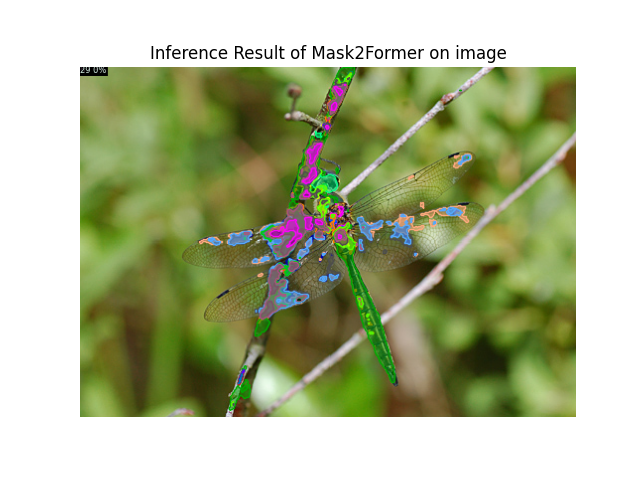
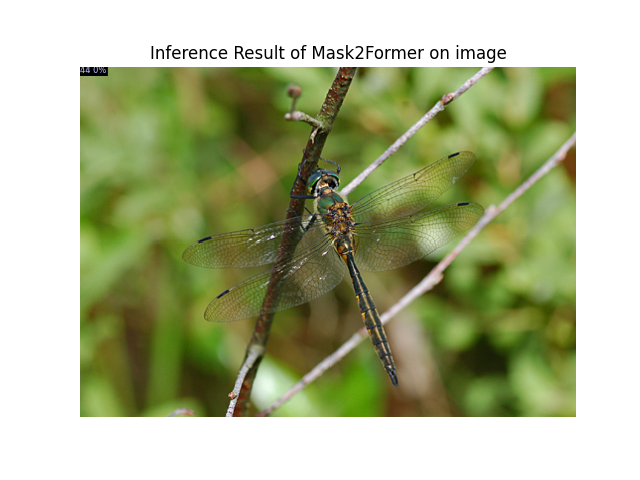
Updating with new inferences

diff --git a/inference_pipeline_mask2former.py b/inference_pipeline_mask2former.py
@@ -11,6 +11,8 @@ from sahi.prediction import ObjectPrediction
 from sahi.utils.cv import get_bbox_from_bool_mask, get_coco_segmentation_from_bool_mask
 from sahi.utils.import_utils import check_requirements
 from detectron2.checkpoint import DetectionCheckpointer
+from detectron2.engine.defaults import DefaultPredictor
+from detectron2.utils.visualizer import Visualizer
 
 logger = logging.getLogger(__name__)
 # import sys
@@ -48,13 +50,13 @@ cfg.freeze()
 predictor = DefaultPredictor(cfg)
 DetectionCheckpointer(predictor.model).load("/home/mrajaraman/Code/model_checkpoints/model_final_mask2former.pth") #, weights_only=False) #, map_location=device)
 print("Model loaded successfully.")
-category_mapping={"1": "b"}
+category_mapping={"1": "head", "2": "thorax", "3": "abdomen", "0": "wings"}
 
 # detectron2 category mapping
 category_names = list(category_mapping.values())
 image = np.array(
     cv2.imread(
-        "/home/mrajaraman/dataset/originals/img_931176390.jpg",  
+        "/home/mrajaraman/dataset/originals/img_931176390.jpg", 
         cv2.IMREAD_COLOR
 ))
 
@@ -63,31 +65,27 @@ image = np.array(
 #     image = image[:, :, ::-1]
 
 prediction_result = predictor(image)
-
-img = prediction_result['instances'][0]._fields['pred_masks'].cpu().detach().numpy()
-bbox = []
-print(prediction_result['instances']._fields['pred_boxes'].tensor)
-print("Number of detected instances is ", len(prediction_result['instances']._fields['pred_boxes'].tensor))
-for i in prediction_result['instances']._fields['pred_boxes'].tensor:
-        print("i is ", i)
-        bbox.append(i.cpu().detach().numpy())
-
-# Display the image
-plt.imshow(Image.open('/home/mrajaraman/dataset/originals/img_931176390.jpg'))
-
-# Add the patch to the Axes
-for i in range(len(bbox)):
-        # print("length is ", len(bbox))
-        plt.gca().add_patch(Rectangle((bbox[i][0], bbox[i][1]), bbox[i][2]-bbox[i][0], bbox[i][3]-bbox[i][1], linewidth=1, edgecolor='r', facecolor='none'))
-        print(f"Instance {i+1} added to image")
-
-# plt.gca().add_patch(Rectangle((50,100),40,30,linewidth=1,edgecolor='r',facecolor='none'))
-# from PIL import Image
-plt.title("Inference Result of Mask2Former on image")
-plt.savefig("inference_mask2former.png")
-
-# original_predictions = pre
+# print(prediction_result)
 # original_predictions = prediction_result
+
+# img = prediction_result['instances'][0]._fields['pred_masks'].cpu().detach().numpy()
+# bbox = []
+# print("Number of detected instances is ", len(prediction_result['instances']._fields['pred_boxes'].tensor))
+# for i in prediction_result['instances']._fields['pred_boxes'].tensor:
+#         print("i is ", i)
+#         bbox.append(i.cpu().detach().numpy())
+
+# # Display the image
+# plt.imshow(Image.open('/home/mrajaraman/dataset/originals/img_931176390.jpg'))
+
+# # Add the patch to the Axes
+# for i in range(len(bbox)):
+#         # print("length is ", len(bbox))
+#         plt.gca().add_patch(Rectangle((bbox[i][0], bbox[i][1]), bbox[i][2]-bbox[i][0], bbox[i][3]-bbox[i][1], linewidth=1, edgecolor='r', facecolor='none'))
+#         print(f"Instance {i+1} added to image")
+
+# plt.title("Inference Result of MaskDINO on image")
+# plt.savefig("inference_maskdino.png")
 
 # # PROOF THAT RESIZING WORKS AS EXPECTED DURING INFERENCE
 # print(predictor.aug)
@@ -102,3 +100,20 @@ sample_preds = prediction_result['instances'][0]._fields['pred_masks'].cpu().det
 # print(sample_preds)
 # print(sample_preds.shape)
 # print(sample_preds.dtype)
+print(sample_preds)
+# print(sample_preds.shape)
+# print(sample_preds.dtype)
+
+outputs = prediction_result["instances"]
+
+# print(type(outputs))
+# print(type(image))
+
+v = Visualizer(image[:, :, ::-1], metadata=None, scale=1.0)
+out = v.draw_instance_predictions(outputs.to("cpu"))
+plt.imshow(out.get_image())
+plt.axis("off")
+plt.show()
+
+plt.title("Inference Result of Mask2Former on image")
+plt.savefig(f"inference_mask2former.png")

diff --git a/inference_pipeline_trained.py b/inference_pipeline_trained.py
@@ -48,18 +48,28 @@ cfg.freeze()
 predictor = DefaultPredictor(cfg)
 # DetectionCheckpointer(predictor.model).load("/home/mrajaraman/Code/model_checkpoints/model_final_mask2former.pth")
 
-DetectionCheckpointer(predictor.model).load("/home/mrajaraman/master-thesis-dragonfly/external/mask2former-dragonfly/output_512_dragonfly_2025-09-22_01-59-38/model_0004884.pth")
-# DetectionCheckpointer(predictor.model).load("/home/mrajaraman/master-thesis-dragonfly/external/mask2former-dragonfly/output_512_dragonfly_2025-09-22_01-59-38/model_0009769.pth")
-# DetectionCheckpointer(predictor.model).load("/home/mrajaraman/master-thesis-dragonfly/external/mask2former-dragonfly/output_512_dragonfly_2025-09-22_01-59-38/model_0014654.pth")
-# DetectionCheckpointer(predictor.model).load("/home/mrajaraman/master-thesis-dragonfly/external/mask2former-dragonfly/output_512_dragonfly_2025-09-22_01-59-38/model_final.pth")
+# DetectionCheckpointer(predictor.model).load("/home/mrajaraman/master-thesis-dragonfly/external/mask2former-dragonfly/output_512_dragonfly_2025-10-02_01-01-28/model_final.pth")
+DetectionCheckpointer(predictor.model).load("/home/mrajaraman/master-thesis-dragonfly/external/mask2former-dragonfly/output_512_dragonfly_2025-10-02_01-01-28/model_0011999.pth")
+
+# DetectionCheckpointer(predictor.model).load("/home/mrajaraman/master-thesis-dragonfly/external/maskdino-dragonfly/output_512_dragonfly_2025-10-02_01-07-38/model_0001499.pth")
+# DetectionCheckpointer(predictor.model).load("/home/mrajaraman/master-thesis-dragonfly/external/maskdino-dragonfly/output_512_dragonfly_2025-10-02_01-07-38/model_0002999.pth")
+# DetectionCheckpointer(predictor.model).load("/home/mrajaraman/master-thesis-dragonfly/external/maskdino-dragonfly/output_512_dragonfly_2025-10-02_01-07-38/model_0004499.pth")
+# DetectionCheckpointer(predictor.model).load("/home/mrajaraman/master-thesis-dragonfly/external/maskdino-dragonfly/output_512_dragonfly_2025-10-02_01-07-38/model_0005999.pth")
+# DetectionCheckpointer(predictor.model).load("/home/mrajaraman/master-thesis-dragonfly/external/maskdino-dragonfly/output_512_dragonfly_2025-10-02_01-07-38/model_0007499.pth")
+# DetectionCheckpointer(predictor.model).load("/home/mrajaraman/master-thesis-dragonfly/external/maskdino-dragonfly/output_512_dragonfly_2025-10-02_01-07-38/model_0008999.pth")
+# DetectionCheckpointer(predictor.model).load("/home/mrajaraman/master-thesis-dragonfly/external/maskdino-dragonfly/output_512_dragonfly_2025-10-02_01-07-38/model_0010499.pth")
+# DetectionCheckpointer(predictor.model).load("/home/mrajaraman/master-thesis-dragonfly/external/maskdino-dragonfly/output_512_dragonfly_2025-10-02_01-07-38/model_0011999.pth")
+# DetectionCheckpointer(predictor.model).load("/home/mrajaraman/master-thesis-dragonfly/external/maskdino-dragonfly/output_512_dragonfly_2025-10-02_01-07-38/model_0013499.pth")
+# DetectionCheckpointer(predictor.model).load("/home/mrajaraman/master-thesis-dragonfly/external/maskdino-dragonfly/output_512_dragonfly_2025-10-02_01-07-38/model_0014999.pth")
+DetectionCheckpointer(predictor.model).load("/home/mrajaraman/master-thesis-dragonfly/external/maskdino-dragonfly/output_512_dragonfly_2025-10-02_01-07-38/model_final.pth")
 print("Model loaded successfully.") 
-category_mapping={"0": "head", "1": "torso", "2": "tail", "3": "wings"}
+category_mapping={"0": "wings", "1": "head", "2": "thorax", "3": "abdomen"}
 
 # detectron2 category mapping
 category_names = list(category_mapping.values())
 image = np.array(cv2.imread('/home/mrajaraman/dataset/originals/img_1458477504.jpg', cv2.IMREAD_COLOR))
 
-model_name="model_0004884"
+model_name="model_final"
 print("Inference done on {}", model_name)
 
 prediction_result = predictor(image)
